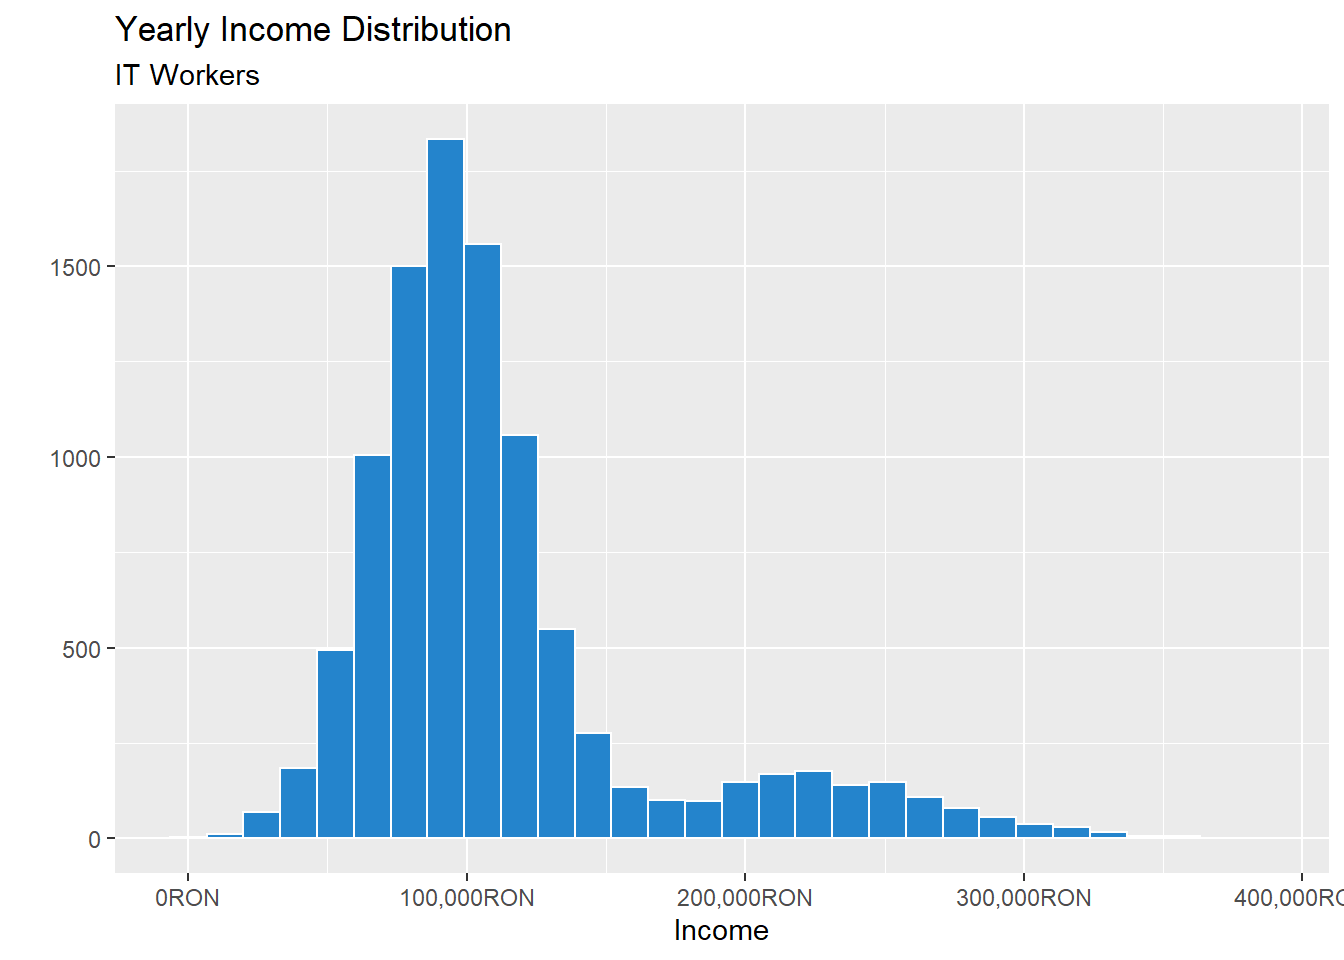
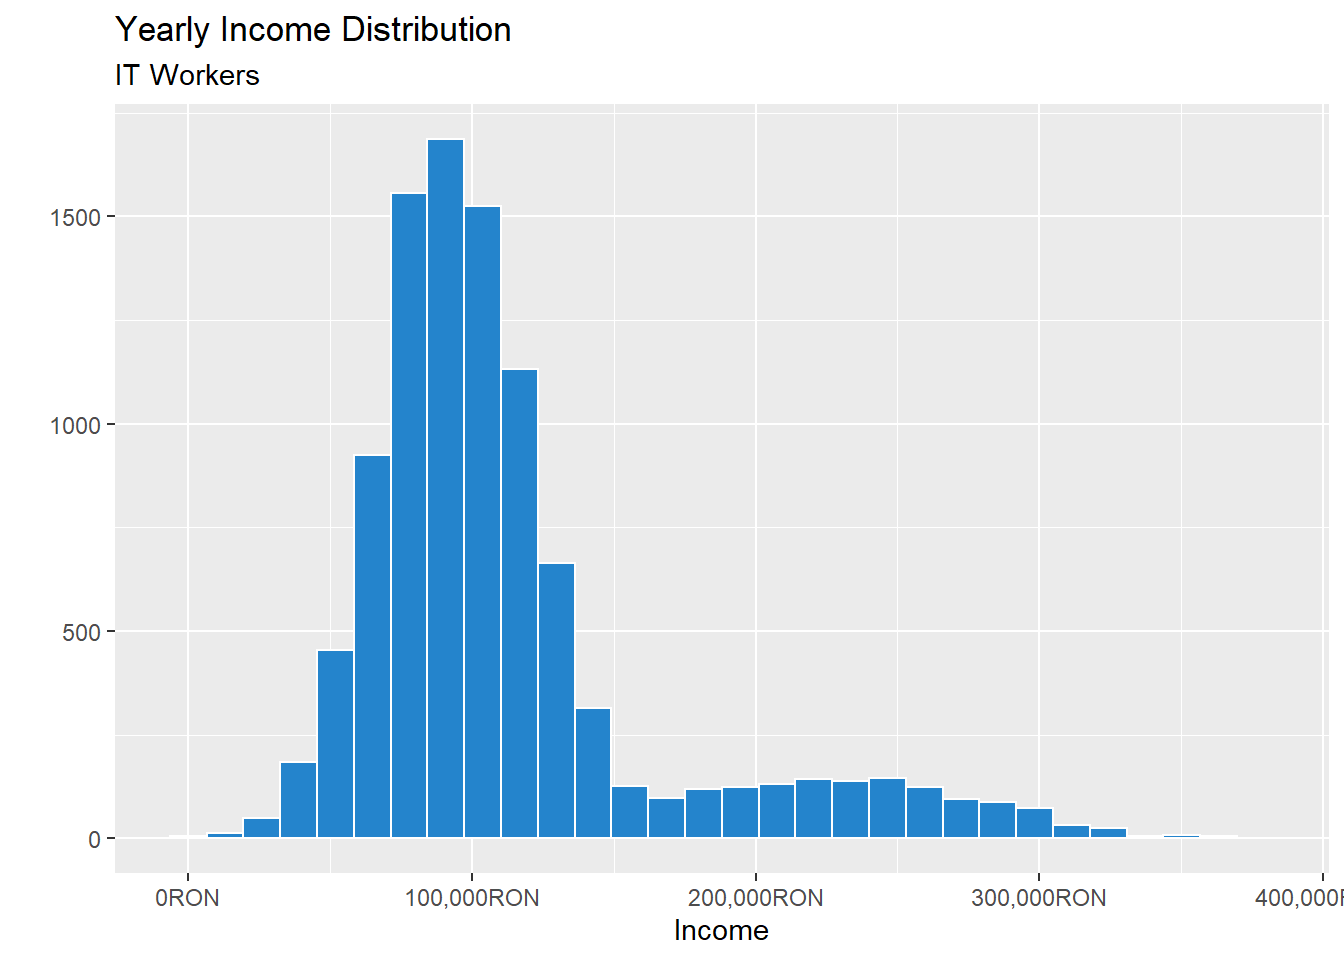
Decision Making Under Uncertainty - Career paths reviewed

diff --git a/content/post/2021-03-18-decision-making-with-uncertainty/index.en.html b/content/post/2021-03-18-decision-making-with-uncertainty/index.en.html
@@ -16,7 +16,7 @@ code_folding: show
 <p><strong>Insert Lead paragraph here.</strong></p>
 <hr />
 <p>People engage in decision making on a daily basis and although most of our decisions seem to derive from logical arguments, the truth is that exactly the opposite is true. Most of the decisions we make are due to <a href="https://en.wikipedia.org/wiki/List_of_cognitive_biases">biases</a> and <a href="https://en.wikipedia.org/wiki/Heuristic">heuristics</a> our minds have developed to respond to the environment around them faster.</p>
-<p>These tendencies have been first described and studied by <a href="https://en.wikipedia.org/wiki/Amos_Tversky">Amos Tversky</a> and <a href="https://scholar.princeton.edu/kahneman/home">Daniel Kahneman</a> and have been explained in Kahneman’s excellent book <em>Thinking fast and slow</em>. I highly recommend the book since it is an excellent guide in where our minds tend to be error prone and mislead us. I will explain in brief however that our minds operate as two separate system called by Kahneman and Tversky <em>system 1</em> and <em>system 2</em>.</p>
+<p>These tendencies have been first described and studied by <a href="https://en.wikipedia.org/wiki/Amos_Tversky">Amos Tversky</a> and <a href="https://scholar.princeton.edu/kahneman/home">Daniel Kahneman</a> and have been explained in Kahneman’s excellent book: <strong>Thinking fast and slow</strong>. I highly recommend the book since it is an excellent guide in where our minds tend to be error prone and mislead us. I will explain in brief however that our minds operate as two separate system called by Kahneman and Tversky <em>system 1</em> and <em>system 2</em>.</p>
 <p><em>System 1</em> is the default system of the mind, the one used for everyday activities. These activities include walking, breathing, detecting danger and avoiding it, eating, doing routine activities, and all activities that do not involve heavy cognitive effort. <em>System 1</em> is emotional, automatic, fast and uses no extra energy from our energy hungry brains.</p>
 <p><em>System 2</em> is the exact opposite of <em>System 1</em>. It is rational, quite slow, and requires a large amount of energy and effort from our part. <em>System 2</em> allows you to analyse in detail every situation, however this is not always ideal. If a car would come speeding towards you, <em>System 2</em> would analyse the colour of the car, the brand and maybe the speed and approach vector, which is a nice thought exercise but might get hit by the car before <em>System 2</em> would act. <em>System 1</em> will not bother with all those details, it will just register car coming towards me with great speed, I need to move out of the way.</p>
 <p>The problem when making decisions is that there are situations moderated or mediated by the aforementioned biases and heuristics in which <em>System 1</em> might make the decision and our minds might think it is actually <em>System 2</em>. Otherwise said, we might make decisions for subjective reasons and have a high degree of confidence in then believing they are objective.</p>
@@ -162,8 +162,7 @@ dr_sal_dist %&gt;%
 <li>Income tax on the remainder of 65% of the Gross salary: 10%</li>
 </ul>
 <p>This will be translated as follows:</p>
-<p><span class="math display">\[ m_{salary(RON)} = (21,100 - \frac{25}{100} \times 21,100 - \frac{10}{100} \times 21,100) \times \frac{90}{100} = 13,715 \times \frac{90}{100} = 12,343.50\]</span>
-This give me the net salary received by a doctor in Romania. All there is now to do is calculate how many such salaries one doctor receives. In Romania medical school lasts for 7 years and afterwards one needs to spend 3 to 5 years in residency. Since residency is paid I will include it in my analysis and I will consider that a doctor starts working when they start their residency. Since most people finish high-school at 19 and med school is 7 years, I will consider that one starts working at 26.</p>
+<p><span class="math display">\[ m_{salary(RON)} = (21,100 - \frac{25}{100} \times 21,100 - \frac{10}{100} \times 21,100) \times \frac{90}{100} = 13,715 \times \frac{90}{100} = 12,343.50\]</span> This give me the net salary received by a doctor in Romania. All there is now to do is calculate how many such salaries one doctor receives. In Romania medical school lasts for 7 years and afterwards one needs to spend 3 to 5 years in residency. Since residency is paid I will include it in my analysis and I will consider that a doctor starts working when they start their residency. Since most people finish high-school at 19 and med school is 7 years, I will consider that one starts working at 26.</p>
 <p>Since I do not plan to work more than I need to, I plan on retiring with the first chance I get. In Romania the retirement age is 65 so I will plan for that. From 26 to 65 there are 39 years of work, multiply that by 12 months I can expect to work for around 468 months.</p>
 <p>And for the conversion to €, that is quite easy. According to the National Bank of Romania, the conversion rate is 1 RON for 0.20 € so all I need to do is divide the number by 5. So, let’s code everything:</p>
 <pre class="r"><code># First, I will need to extract the taxes so I can compare just the NET salaries
@@ -174,8 +173,7 @@ dr_sal_final &lt;- dr_sal_final * 468
 
 # And finally, the conversion to €
 dr_sal_final &lt;- dr_sal_final / 5  </code></pre>
-<p>&lt;&lt;&lt;&lt;&lt;&lt;&lt; HEAD
-One more thing I would like to add, I would like to know which is the potential success rate of me becoming a doctor? This is a bit tricky to find out for certain but I will try. Before that I think it is a good idea to write down my thought process and then I can crunch the numbers.</p>
+<p>One more thing I would like to add, I would like to know which is the potential success rate of me becoming a doctor? This is a bit tricky to find out for certain but I will try. Before that I think it is a good idea to write down my thought process and then I can crunch the numbers.</p>
 <p>Since applying for medical school requires quite a brutal exam, I will assume that no one applies for it without being serious about it and without having the discipline and study to pass the exam. This information is relevant because it allows me to safely assume that the a student once admitted is highly likely to become a doctor.</p>
 <p>This is acquired by two mechanisms. The first mechanism is the fact that the extra preparation for the exam allows potential students see the effort required and if they are not willing to put in the effort they can change their mind before the admission exam. The second mechanism keeping student from quitting is the <a href="https://en.wikipedia.org/wiki/Sunk_cost">sunk cost fallacy.</a> For this reason, I will only take into account the admittance rate and that can be taken from the university’s website.</p>
 <p>In this case I will use the <a href="http://www.umfcluj.ro/component/content/article/8-ro/595-rezultate-admitere-2020_?Itemid=216">2020 admissions</a> for the University of Medicine and Pharmacy in Cluj-Napoca. The admittance rate is simple, how many people were admitted over how many applied. The admitted numbers were as follows:</p>
@@ -186,8 +184,7 @@ One more thing I would like to add, I would like to know which is the potential 
 <li>17 - Dental Medicine Tax</li>
 <li>591 - Rejected</li>
 </ol>
-<p><span class="math display">\[admit\_rate = \frac{318 + 60 + 80 + 17}{318 + 60 + 80 + 17 + 591} = 0.4465291 \]</span>
-There, my chances are 45%. Now I will code this chance by simply generating a list of 10,000 elements which are either 0 or 1 and 4500 of them are 1. Then I will simply multiply the two lists. If a salary is multiplied by a 0 it will signify that I did not make it as a doctor.</p>
+<p><span class="math display">\[admit\_rate = \frac{318 + 60 + 80 + 17}{318 + 60 + 80 + 17 + 591} = 0.4465291 \]</span> There, my chances are 45%. Now I will code this chance by simply generating a list of 10,000 elements which are either 0 or 1 and 4500 of them are 1. Then I will simply multiply the two lists. If a salary is multiplied by a 0 it will signify that I did not make it as a doctor.</p>
 <pre class="r"><code># The list that will show me if I have made it or not
 admittance_rate &lt;- rbinom(n = 10000, size = 1, prob = 0.45)
 
@@ -196,13 +193,11 @@ dr_sal_final &lt;- dr_sal_final * admittance_rate
 
 # Just to be sure, I would like to see the rate
 print(sum(admittance_rate) / 10000)</code></pre>
-<pre><code>#&gt; [1] 0.4479</code></pre>
-<p>=======
-&gt;&gt;&gt;&gt;&gt;&gt;&gt; d1c1ead9f59f46e37ee33d223f6ebec8215dd033
-I will take a look at the numbers in the analysis part, this is just the preparation of the data. Now, let’s see if we can estimate how much does an IT professional earn.</p>
+<pre><code>#&gt; [1] 0.4525</code></pre>
+<p>I will take a look at the numbers in the analysis part, this is just the preparation of the data. Now, let’s see if we can estimate how much does an IT professional earn.</p>
 </div>
-<div id="part-of-the-it-crowd" class="section level2">
-<h2>Part of the IT Crowd</h2>
+<div id="the-it-crowd" class="section level2">
+<h2>The IT Crowd</h2>
 <p>Fortunately for me, Romania has one of the most active IT sectors in this part of Europe and it is expanding continuously. This is a good thing for someone looking to start on this career path because it offers a lot of opportunities. All I need now is to check if those opportunities are worth it or not. For this I have found a beautiful analysis on 1,267 salaries for IT professionals that can be seen <a href="https://www.averagesalarysurvey.com/romania">here</a>.</p>
 <p>The sample used in the analysis is large enough to give me a good estimate of how the salaries are distributed in the IT sector. The data is a bit skewed and slightly more than half the people have an income level slightly below the average. This effect is most likely caused by the income of the managers and directors as they have significantly higher income. The higher income raises the average salary value, however this is not a problem, I will just need to estimate the amount of managers and directors and account for that.</p>
 <p>As for the medical salaries, I will like first to figure out:</p>
@@ -223,7 +218,7 @@ it_sal_dist &lt;- c(it_sal_low, it_sal_high)
 
 # The average of my salary distribution should be similar to that on the website
 mean(it_sal_dist)</code></pre>
-<pre><code>#&gt; [1] 112496.3</code></pre>
+<pre><code>#&gt; [1] 112842.7</code></pre>
 <p>From what I can see the distribution I have created has the same average salary as the population on the website so I can safely assume that the distribution I have created more or less resembles the population I want to recreate. The distribution looks like this:</p>
 <pre class="r"><code>it_sal_dist %&gt;% 
   histogram() +
@@ -275,8 +270,7 @@ it_sal_dist_net_eur &lt;- it_sal_dist_net / 5</code></pre>
 <li>NL100 (also known as 100NL) = ¢50 / $1 blinds</li>
 </ul>
 <p>Considering that I would have to focus on winning big blinds and not hands, my winnings will be influenced by the value of the big blind. The formula can be seen below:</p>
-<p><span class="math display">\[ (winning\_chance \times blind\_value) \times \frac{played\_hands}{100}  \]</span>
-Usually a professional poker player will play around 100,000 hands a month. I think that would be a fair number for my approximations. I am going for this career out of laziness, the opportunity of easy money, and the possibility to make my own hours so I will not overdo it. The next thing that I will need will be the winning rates for each type of table. I will use the probabilities from this <a href="https://www.blackrain79.com/2014/06/good-win-rates-for-micro-and-small_6.html">blog post</a> and since I have already decided that I will play a fixed number of hands each month, I will use the higher win rates in the tables. Now I will compute the monthly win rate for each table. I will transform them into dollars directly.</p>
+<p><span class="math display">\[ (winning\_chance \times blind\_value) \times \frac{played\_hands}{100}  \]</span> Usually a professional poker player will play around 100,000 hands a month. I think that would be a fair number for my approximations. I am going for this career out of laziness, the opportunity of easy money, and the possibility to make my own hours so I will not overdo it. The next thing that I will need will be the winning rates for each type of table. I will use the probabilities from this <a href="https://www.blackrain79.com/2014/06/good-win-rates-for-micro-and-small_6.html">blog post</a> and since I have already decided that I will play a fixed number of hands each month, I will use the higher win rates in the tables. Now I will compute the monthly win rate for each table. I will transform them into dollars directly.</p>
 <p><span class="math display">\[ Avg\_NL2   = (10 \times \frac{2}{100}) \times \frac{100000}{100} = \$200\]</span></p>
 <p><span class="math display">\[ Avg\_NL5   = (6 \times \frac{5}{100}) \times \frac{100000}{100} = \$300\]</span></p>
 <p><span class="math display">\[ Avg\_NL10  = (4 \times \frac{10}{100}) \times \frac{100000}{100} = \$400\]</span></p>
@@ -290,13 +284,11 @@ Usually a professional poker player will play around 100,000 hands a month. I th
 <p><span class="math display">\[ Elite\_NL25  = (10 \times \frac{25}{100}) \times \frac{100000}{100} = \$2500\]</span></p>
 <p><span class="math display">\[ Elite\_NL50  = (9 \times \frac{50}{100}) \times \frac{100000}{100} = \$4500 \]</span></p>
 <p><span class="math display">\[ Elite\_NL100 = (8 \times 1) \times \frac{100000}{100} = \$8000 \]</span></p>
-<p>There seems to be quite a gap between the two brackets. Here we can see that we encounter the same problem as with did with the IT crowd. Elite player earn significantly more that average professional players and they are way fewer. Fortunately for us this is also not a power law distribution because a player is limited on how much he can earn on one hand just from blinds and he can play just so many hours in a month, therefore it is highly unlikely to see someone earn in the millions in one month. These population of elite players is around 10%.</p>
-<p>=============================================================</p>
-<p>We can see that this is not anywhere near a normal distribution. By the definition of professional players, we know that they are the ones that actually earn enough so that they can survive of this income. This leaves us with a skewed distribution. I think we can safely assume that most professional players are average players and the elite that earn as much as we have shown here are a small percent 10%. With that said, we can start creating the population of online poker players.</p>
-<p>Another assumption is that professional poker players will not spend all their time in NL2, NL5 and NL10 games, will most likely spend it on something that will provide more income. This is also consistent with the living wage assumption. I know $750 might not seem much in a month for most Western democracies, however, it is quite a decent income in second and third world countries. So, how are we going to do this?</p>
-<p>Simple, we will create two distributions that will reflect the average player and the elite player. The first one will be 90% of the population and the second one will be the other 10%</p>
+<p>There seems to be quite a gap between the two brackets. Here we can see that we encounter the same problem as with did with the IT crowd. Elite player earn significantly more that average professional players and they are way fewer. Fortunately for us this is also not a power law distribution because a player is limited on how much he can earn on one hand just from blinds. Since he can play just so many hours in a month it is highly unlikely to see someone earn in the millions in one month. These population of elite players is around 10%. I will have the same approach as I did for the IT workers when creating the distribution.</p>
 <pre class="r"><code>avg_player &lt;- rnorm(9000, 1400, 300)
+
 elt_player &lt;- rnorm(1000, 4000, 1000)
+
 poker_players &lt;- c(avg_player, elt_player)</code></pre>
 <pre class="r"><code>poker_players %&gt;% 
   histogram() +
@@ -304,13 +296,31 @@ poker_players &lt;- c(avg_player, elt_player)</code></pre>
        subtitle = &quot;Professional Poker Players&quot;)</code></pre>
 <pre><code>#&gt; `stat_bin()` using `bins = 30`. Pick better value with `binwidth`.</code></pre>
 <p><img src="{{< blogdown/postref >}}index.en_files/figure-html/unnamed-chunk-3-1.png" width="100%" /></p>
-<p>This distribution seems legit for a power law distribution. And now, for the final touch, we will need to add the 10% chance to become a professional player. We will do this by using the list we have created earlier. For this we will create a binomial distribution with a 10% probability and a size 1. Basically we can create a random string of values, either 1 or 0 and about 10% are one. Let’s see it in practice.</p>
-<pre class="r"><code>success_prob &lt;- rbinom(n = 10000, size = 1, prob = 0.1)
+<p>The distribution seems OK from what was described in my source. Now, for the final touch, I just need two more steps:</p>
+<ol style="list-style-type: decimal">
+<li>Transform the data in lifelong earnings</li>
+<li>Add the probability of actually making it as as professional poker player as we did for the medical career path</li>
+</ol>
+<p>So, for how long should I expect to be active in this domain? This is a bit tricky because it is not a career recognised by the Romanian government so there is no pension plan for it. This means that I am not forced to retire at 65, I can do it earlier or later, however since I want to compare apples with apples I will account for working until 65 as for the previous two careers.</p>
+<p>And all I need to know now is when can I start working? Since there are no study requirements or skill assessment to start this, you just need to log in an play, I would be able to start any time. If I want maximum income and experience gain, I will start at 19, as soon as I finish high school. This would mean:</p>
+<p><span class="math display">\[ months\_played = (65 - 19) * 12 = 552 \]</span>
+And now for the last part, the probability to become a professional poker player. As mentioned above, the probability is 10% according to the blog.</p>
+<pre class="r"><code># Poker Players LIFELONG earnings
+poker_players &lt;- poker_players * 552
+
+# The list that will show me if I have made it or not
+success_prob &lt;- rbinom(n = 10000, size = 1, prob = 0.1)
+
+# Now I will add the chance to the previous list
+poker_players_final &lt;- poker_players * success_prob
+
+# Just to be sure, I would like to see the rate
 print(sum(success_prob) / 10000)</code></pre>
-<pre><code>#&gt; [1] 0.1011</code></pre>
-<p>Perfect, 10.11% is exactly what we would expect.</p>
-<p>Now all we need to do is multiply the two lists. When a value in the second list is 0 it will transform the earnings to 0, so we did not make it as a professional poker player. When it is 1 the result will not be affected.</p>
-<pre class="r"><code>poker_players_final &lt;- poker_players * success_prob</code></pre>
-<p>Now that we painfully and to the best of our knowledge created the populations, let’s proceed in analysing the data.</p>
+<pre><code>#&gt; [1] 0.098</code></pre>
+<p>9.80% is exactly what it is to be expected.</p>
+<p>All I need right now is to analyse the data and see which career path is better for me.</p>
 </div>
+</div>
+<div id="data-analysis" class="section level1">
+<h1>Data Analysis</h1>
 </div>
